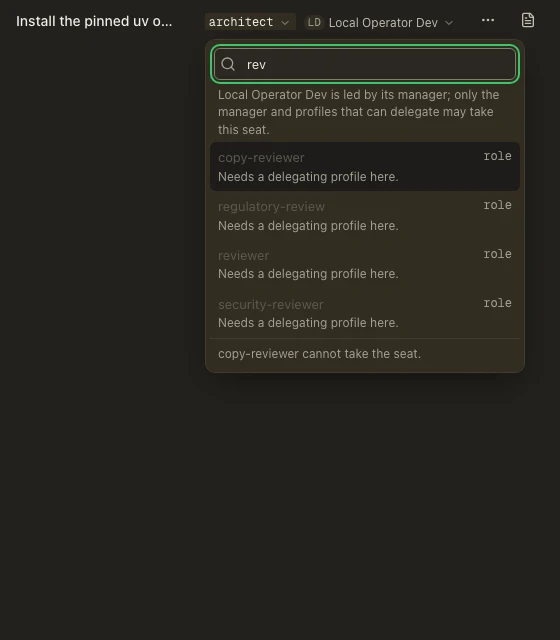
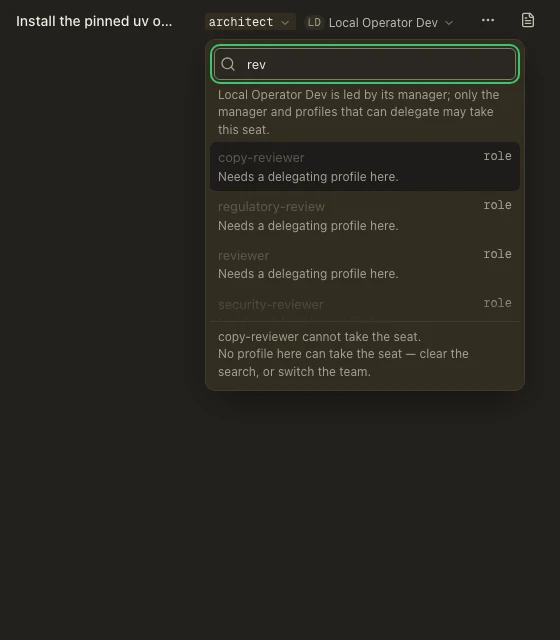
docs(evidence): re-shoot refused-enter, and add the mixed-ring and manager-less frames
Eight frames at the round-2 commit: `refused-enter` re-shot (the announcement
now sits ABOVE the resolution rather than deleting it - D7's addition, visible
in frame), plus two new states - `recents-agent-mixed-open` (the band keeping
the settable remembered row while the refused one stays in All agents with its
reason; D8) and `no-settable-agent` (the untyped resolution rendered; D9) -
and `search-results` re-shot under the new footer DOM. The set README carries
the round-2 note and the new rows (including the `recents-agent-open`
byte-identity explanation), and the manifest's counts are re-derived from the
committed tree at `d98de85859e` (1489 + 2 STORIES rows; the frames walk adds
the four new files).

Changed region(s): [[0.3946, 0.5, 0.8196, 0.5938]]

diff --git a/docs/evidence/chat-header-identity/README.md b/docs/evidence/chat-header-identity/README.md
@@ -205,7 +205,8 @@ describes are unchanged - only the settability of a near-miss row is.
 | `menu-near-window-bottom` | The band pinned to the BOTTOM of the viewport (`LongRosterAtTheBottom`, 560x520), so the panel has to flip: it opens upward, 352px, wholly on screen. The story moves the band because the app's header cannot be at the bottom of the window - the frame is about the placement, and it says so. |
 | `search-results` | `rev` typed into the field of the same 150-name roster: four rows, every one refused by the team's rule - so since review round 1's D1 the footer carries the resolution rather than the count (`No profile here can take the seat — clear the search, or switch the team.`), and each row keeps the short per-row reason. |
 | `search-no-results` | `zzzz`: the panel shrinks to its field plus one sentence, `Nothing matches "zzzz".`, and the footer stays away rather than claiming a count over an empty result. The state most likely to be ugly, photographed. |
-| `recents-agent-open` | The recents band with history (agent menu): on this ring every remembered row is refused by the team's rule, so since review round 1's U6 the band and its heading are GONE - a band of refusals is not the shortcut it exists to be - while `All agents` still lists every row with its reason and the highlight lands on the settable `architect`. The mixed case (refused dropped, settable kept) is pinned in `header-identity-menu.test.mjs`. |
+| `recents-agent-open` | The recents band with history (agent menu): on this ring every remembered row is refused by the team's rule, so since review round 1's U6 the band and its heading are GONE - a band of refusals is not the shortcut it exists to be - while `All agents` still lists every row with its reason and the highlight lands on the settable `architect`. The frame is byte-identical to `long-roster-agent-open` BY CONSTRUCTION (this ring has nothing settable to show), which is why review round 2's D8 asked for the mixed ring beside it: `recents-agent-mixed-open` is that frame, and the membership rule is pinned in `header-identity-menu.test.mjs`. |
+| `recents-agent-mixed-open` | The MIXED ring (review round 2, D8): `manager` (settable, remembered) is up in `Recent agents` while `coder` (refused, remembered) is absent from the band and still listed, greyed with its reason, under `All agents` - the band as a FILTER rather than a fault. |
 | `recents-team-open` | The same band in the team menu, so the two pickers are shown agreeing rather than one frame plus an assurance about the other. |
 | `no-recents-team-open` | The fresh install: an empty ring, and therefore NO band and NO heading at all - not an empty `Recent teams` strip. The entry asserts `expectGone` on the heading so a regression fails the run. |
 
@@ -302,7 +303,8 @@ copy shown in these frames is the design round's candidate to weigh.
 | `conflict-chip` | The incompatible pair at rest (`coder · Local Operator Dev`): the persona stays visible, the warning mark says the pair needs resolving. |
 | `conflict-agent-open` | The panel where one pick resolves it: the caption, the current refused row disabled with its reason, the manager and delegating profiles settable beside it. |
 | `conflict-chip-loading` | The same pair before the roster answers: no cue, asserted at shutter time. |
-| `refused-enter` | `rev` typed, then Enter on the refused row the filter left active: the footer's live region answers (`copy-reviewer cannot take the seat.`) instead of the silent no-op review round 1 measured (D2/U1). |
+| `refused-enter` | `rev` typed, then Enter on the refused row the filter left active: the footer's live region answers (`copy-reviewer cannot take the seat.`) instead of the silent no-op review round 1 measured (D2/U1). Since review round 2's D7 the answer is an ADDITION - the exits line stays rendered under it - and both clear the moment the highlight moves, so the line never names a row that is no longer active. |
+| `no-settable-agent` | The manager-less roster (review round 2, D9): every row refused because no row carries the manager's name or a delegate flag, so the footer renders the UNTYPED resolution - `No profile can take the seat — switch the team.` - the branch the typed sentence cannot reach. |
 
 ### Review round 1's remediation (the frames re-shot at this head)
 
@@ -324,6 +326,21 @@ then fixed with a callback ref; QA's Q-1). The command was the same narrowed
 shape as above,
 `--dirs=agent-menu-open,constrained-agent-open,conflict-agent-open,long-roster-agent-open,long-roster-short-window,menu-near-window-bottom,search-results,recents-agent-open,narrow-fold-agent-menu-open,refused-enter`,
 ten states x two palettes on port 6457, every claim asserted at shutter time.
+
+### Review round 2's polish (three states added, one re-shot)
+
+The convergence round's minors changed three surfaces, so three frames join the
+set and one is re-shot: `refused-enter` now shows the announcement and the
+resolution together (D7 - the exits line survives the key, and the answer
+clears the moment the highlight moves), `recents-agent-mixed-open` frames the
+band as a filter rather than a fault (D8 - `manager` kept in the band, `coder`
+dropped from it and still listed below with its reason), and `no-settable-agent`
+renders the untyped resolution (D9). The command was the same narrowed shape,
+`--dirs=refused-enter,search-results,recents-agent-mixed-open,no-settable-agent`,
+on port 6459 with the settle budget raised for the loaded host
+(`LOCAL_OPERATOR_UI_THEME_SETTLE_MS=30000` - a cold preview took longer than
+the shipped 10 s to apply the theme, and the raised budget is the knob the rig
+documents for exactly that), every claim asserted at shutter time.
 
 `before-constraint/` is this round's before half, shot the way `before-main/`
 and `before-bound/` were: this branch's stories - whose bridge answers the
